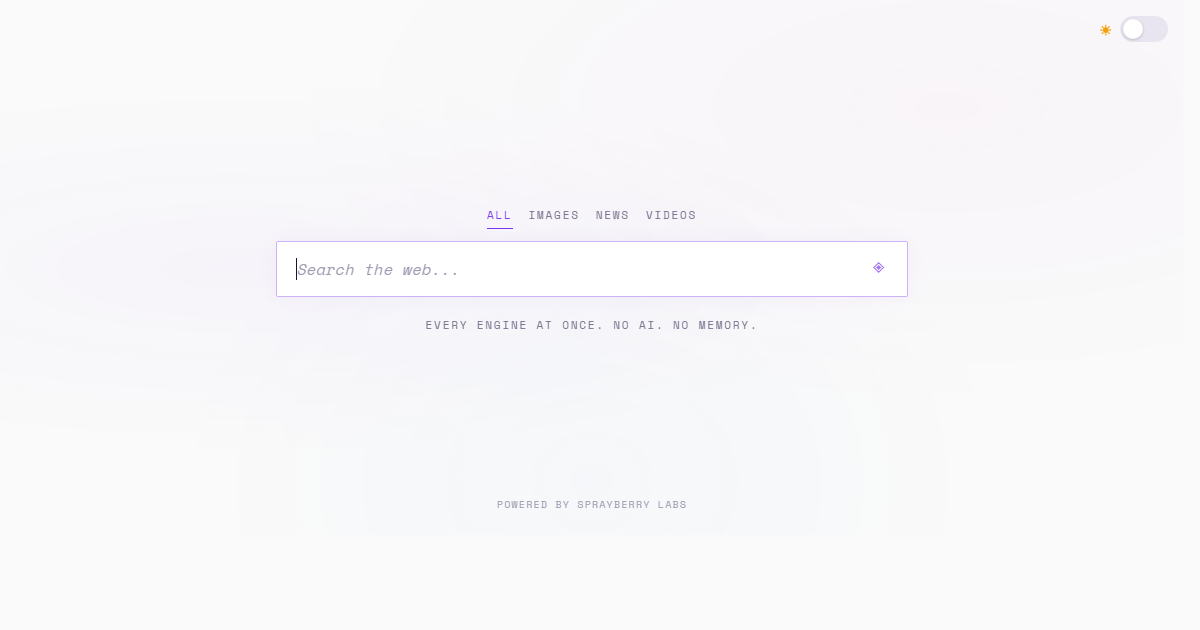
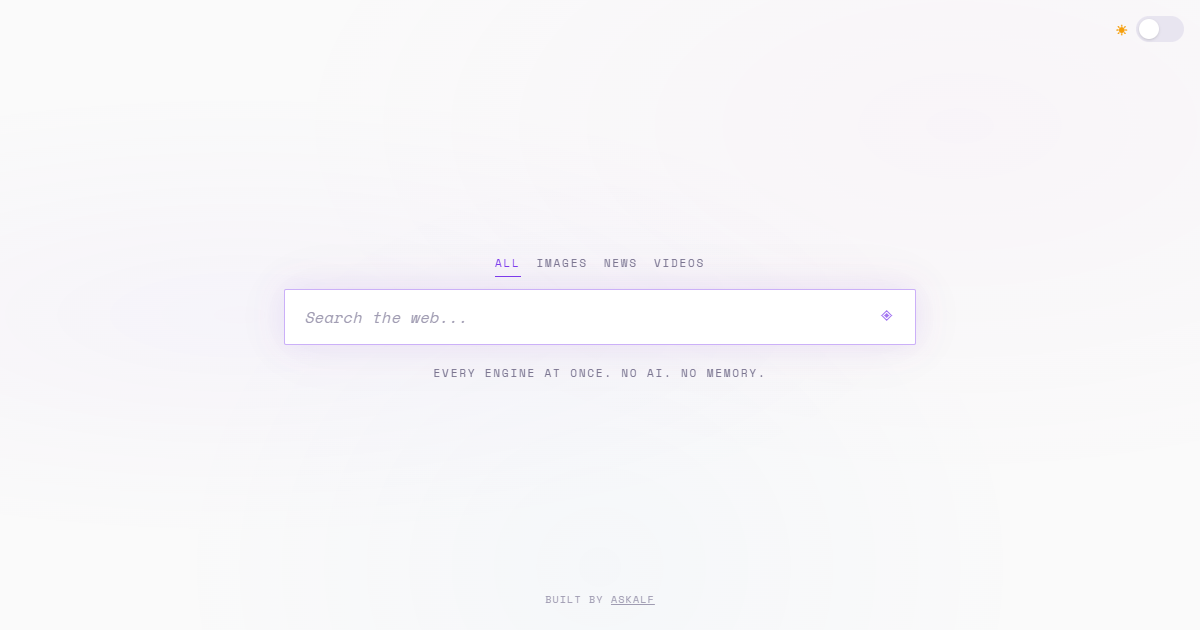
chore(og): refresh OG image to current branding (#20)
The OG card screenshot still showed the old "POWERED BY SPRAYBERRY LABS"
footer; the live landing page footer is now "built by askalf". Re-rendered
the 1200x630 card from the current landing page and bumped the og:image /
twitter:image cache-buster to ?v=3 so social scrapers refetch.

diff --git a/src/amnesia-search.html b/src/amnesia-search.html
@@ -11,7 +11,7 @@
   <meta property="og:type" content="website">
   <meta property="og:url" content="https://amnesia.tax">
   <meta property="og:site_name" content="amnesia.tax">
-  <meta property="og:image" content="https://amnesia.tax/og.png?v=2">
+  <meta property="og:image" content="https://amnesia.tax/og.png?v=3">
   <meta property="og:image:type" content="image/png">
   <meta property="og:image:width" content="1200">
   <meta property="og:image:height" content="630">
@@ -20,7 +20,7 @@
   <meta name="twitter:site" content="@ask_alf">
   <meta name="twitter:title" content="amnesia.tax">
   <meta name="twitter:description" content="Every engine at once. No AI. No memory.">
-  <meta name="twitter:image" content="https://amnesia.tax/og.png?v=2">
+  <meta name="twitter:image" content="https://amnesia.tax/og.png?v=3">
   <meta name="twitter:image:alt" content="amnesia.tax — aggregated search engine">
   <meta name="theme-color" content="#fafafa" id="themeColor">
   <link rel="search" type="application/opensearchdescription+xml" title="amnesia.tax" href="/opensearch.xml">
